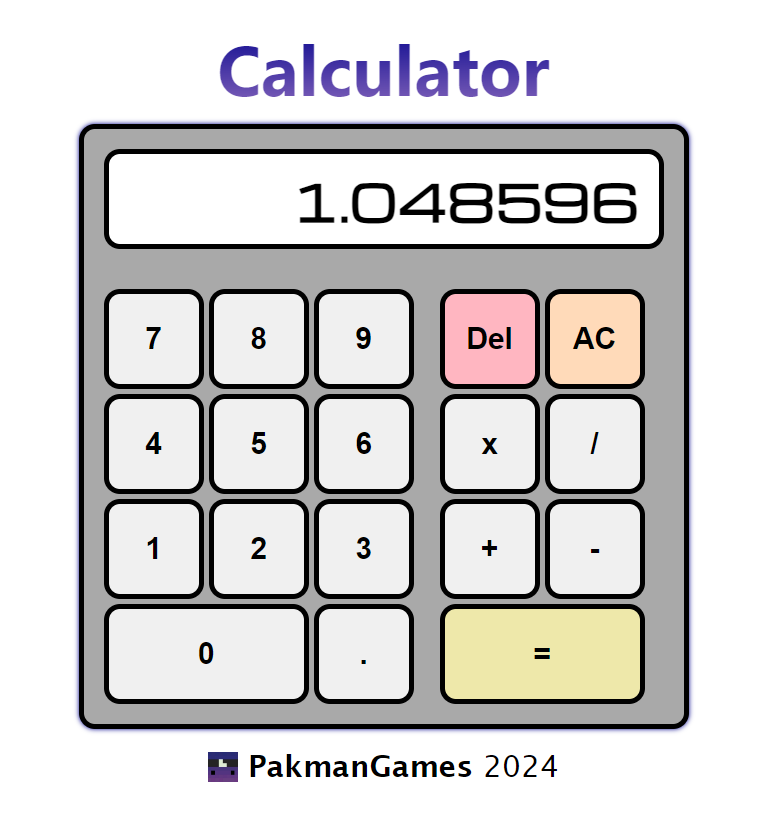
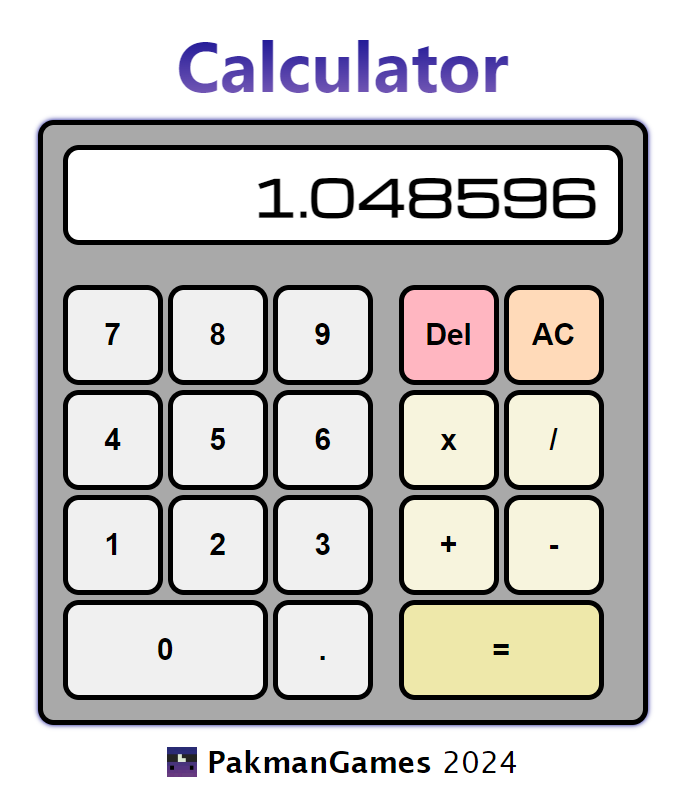
Update README
Add icon to webpage at top
Minor changes to style.css

diff --git a/style.css b/style.css
@@ -79,16 +79,21 @@ button {
     width: 205px;
 }
 
-/* Colourize special buttons */
-.del-btn {
+/* Colourize operator buttons */
+
+.operators button {
+    background-color: rgb(247, 244, 221);
+}
+
+.operators .del-btn {
     background-color: lightpink;
 }
 
-.clear-btn {
+.operators .clear-btn {
     background-color: peachpuff;
 }
 
-.equal-btn {
+.operators .equal-btn {
     background-color: palegoldenrod;
 }
 

diff --git a/index.html b/index.html
@@ -4,6 +4,7 @@
         <meta charset="UTF-8">
         <meta name="viewport" content="width=device-width, initial-scale = 1.0">
         <link rel="stylesheet" href="./style.css">
+        <link rel="icon" href="./images/nerd.png">
         <title>Calculator</title>
     </head>
     <body class="container">

diff --git a/README.md b/README.md
@@ -1,6 +1,22 @@
-# Calculator
+# Calculator In JavaScript  
 
-Calculator in JavaScript  
-(Currently a work in progress)
+This project uses many different concepts which include:
+- Flexbox
+- DOM manipulation
+- Event listeners
+- Objects and array methods
 
-[gradient](https://stackoverflow.com/questions/8384751/css-text-gradient)
+Through this project I have been able to put to practice my knowledge of event listeners in creating a dynamically updating calculator. As well as make the buttons visually change upon being pressed on and playing a sound effect to go along.  
+
+Click [here](https://pakmangames.github.io/calculator) to try it out for yourself.  
+
+Here's a preview of what it looks like:
+![Preview](./images/final.png)
+
+This is how it looked in earlier stages:
+![Initial](./images/initial.png)
+
+And this is what the initial concept brainstorm looked like:
+![Concept](./images/concept.png)
+
+This is the link of where I learned to give the title a [linear gradient](https://stackoverflow.com/questions/8384751/css-text-gradient) colour.
